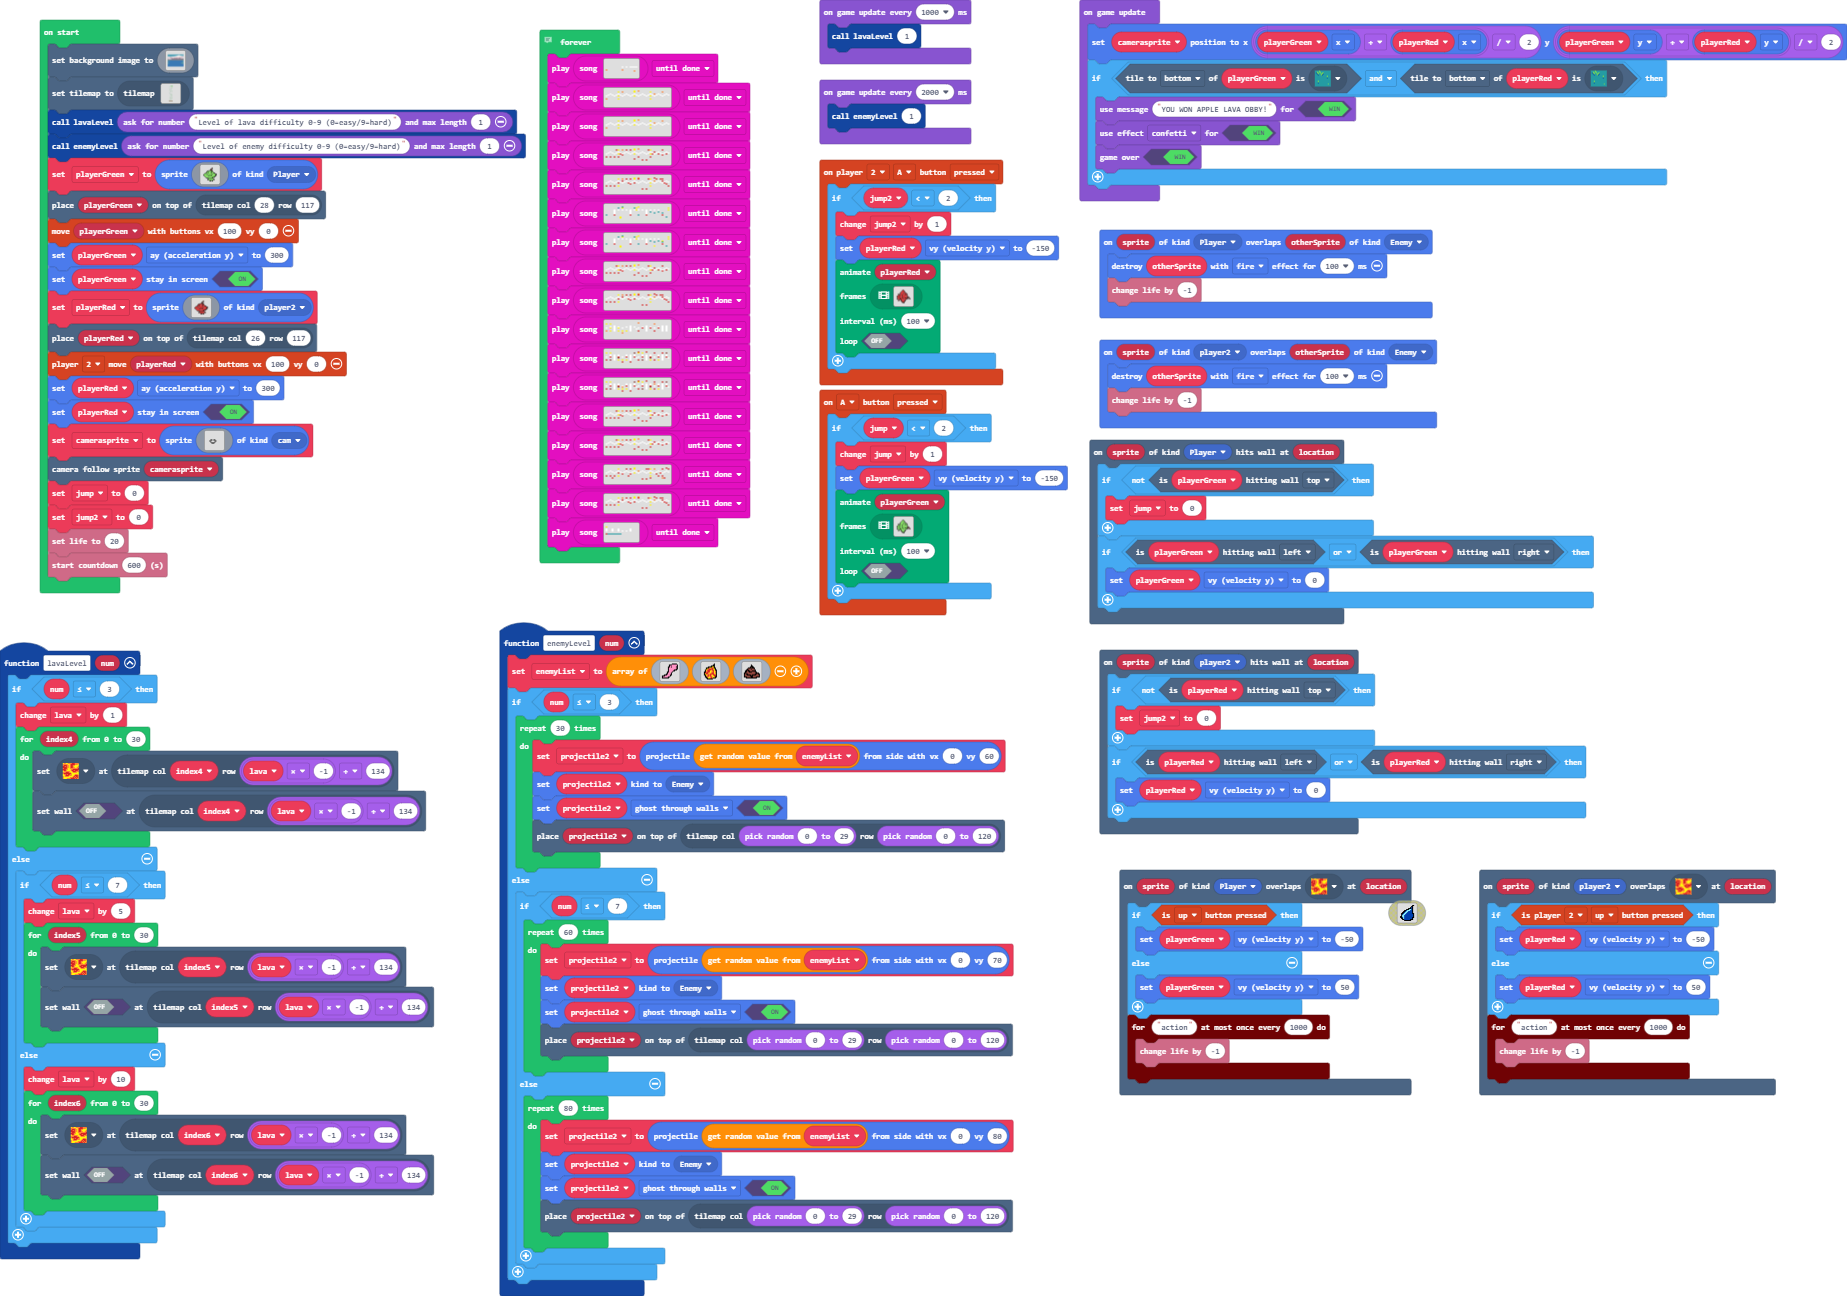
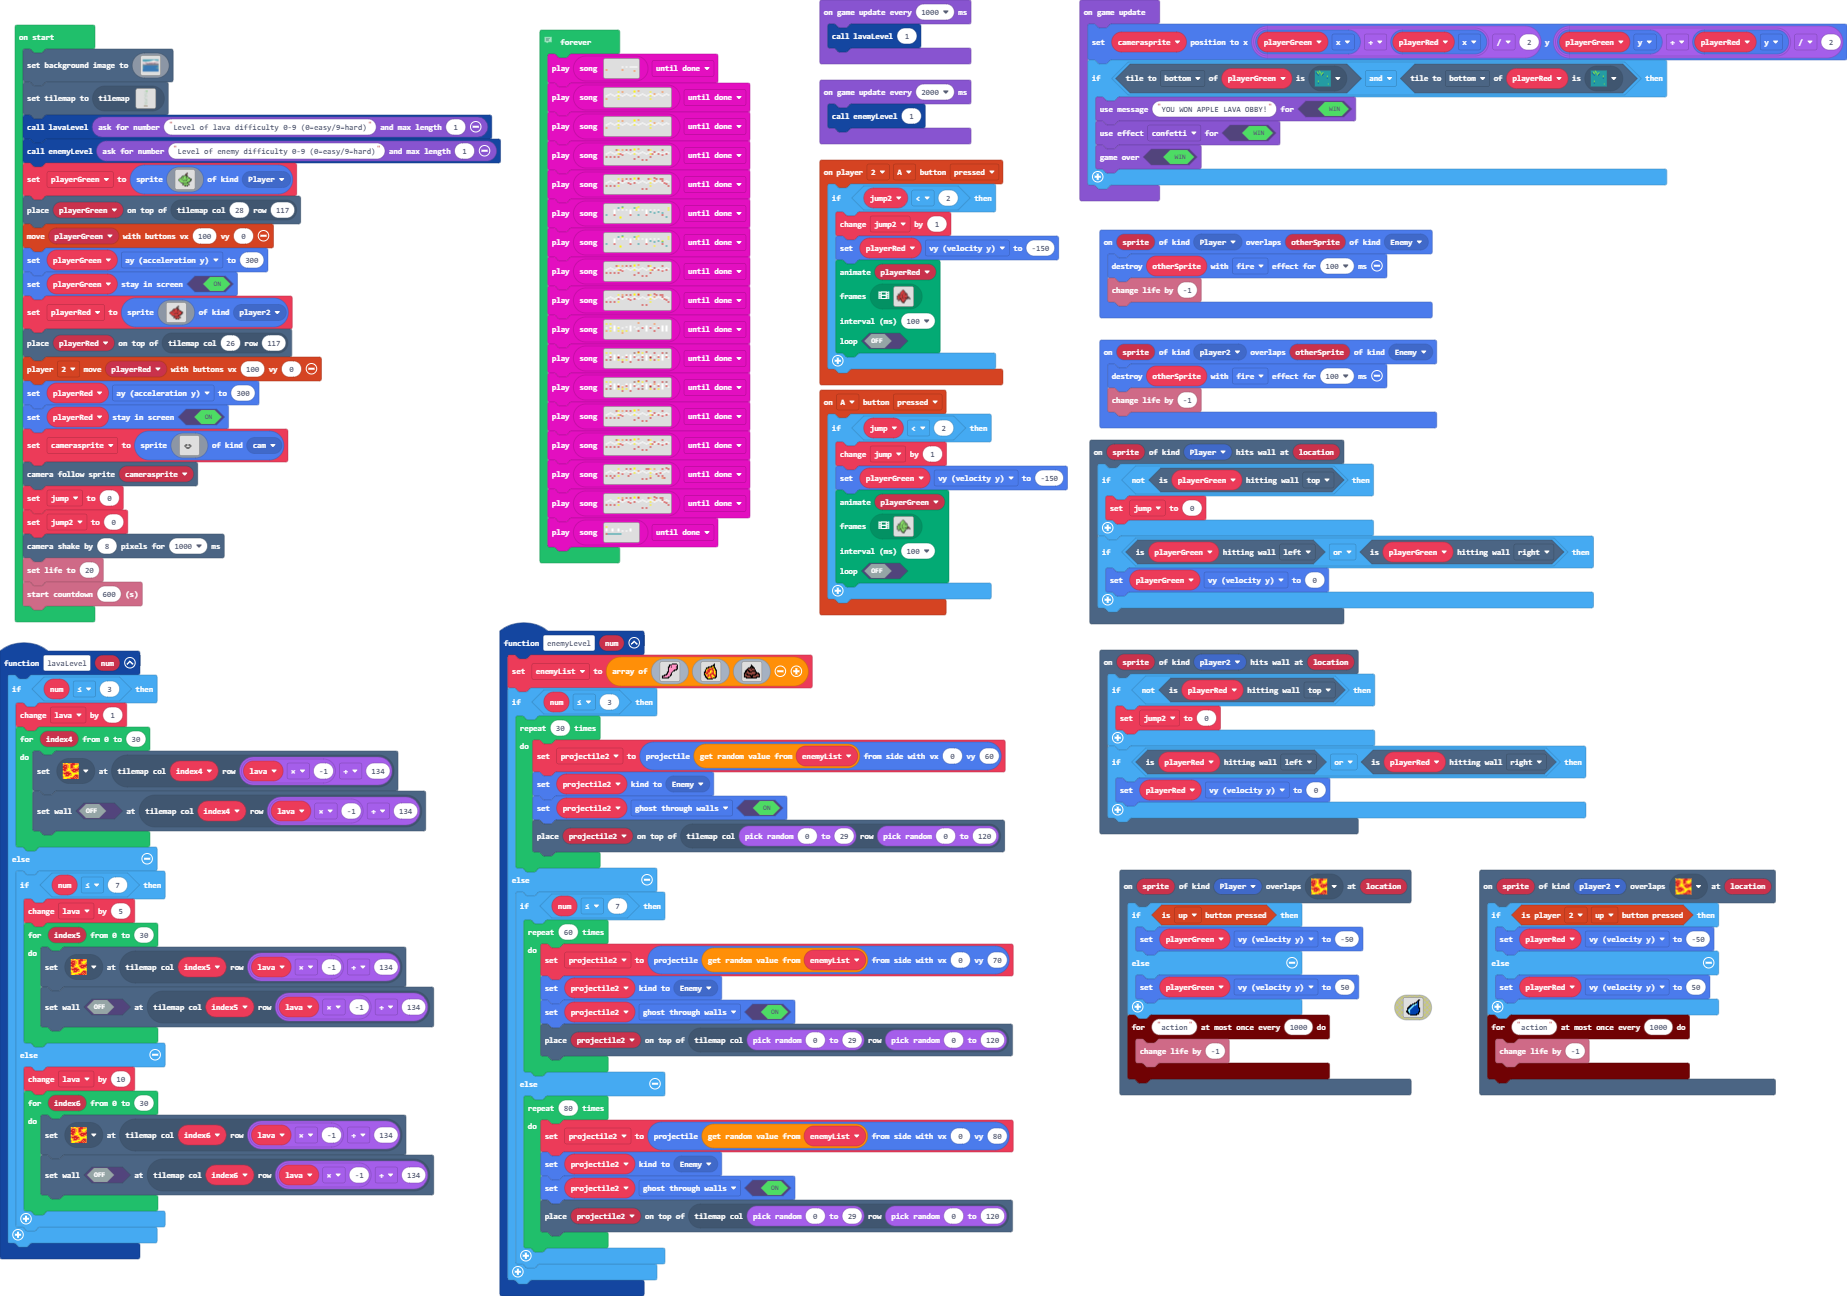
Update main.blocks, main.ts

Changed region(s): [[0.0, 0.0, 0.3086, 0.4938], [0.7407, 0.7716, 0.7715, 0.8025], [0.7407, 0.679, 0.7715, 0.7099]]

diff --git a/main.ts b/main.ts
@@ -437,6 +437,7 @@ let camerasprite = sprites.create(img`
 scene.cameraFollowSprite(camerasprite)
 jump = 0
 jump2 = 0
+scene.cameraShake(8, 1000)
 info.setLife(20)
 info.startCountdown(600)
 game.onUpdate(function () {
